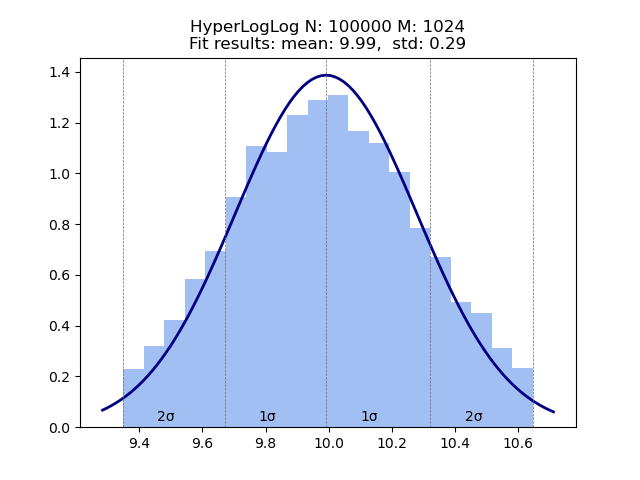
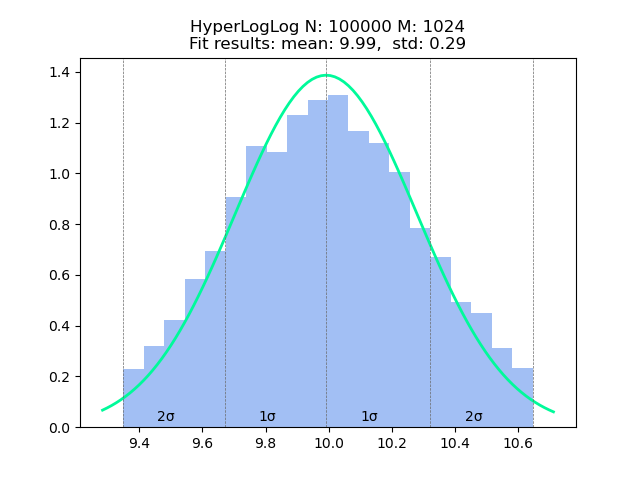
histograms

diff --git a/histogram.py b/histogram.py
@@ -59,7 +59,7 @@ def make_hist(d, mu, std1, std2, m, n):
     x = np.linspace(xmin, xmax, 100)
     p = norm.pdf(x, mu, std)
 
-    plt.plot(x, p, 'navy', linewidth=2)
+    plt.plot(x, p, 'mediumspringgreen', linewidth=2)
     # axes for standard divation
     plt.axvline(std1[0], color='dimgrey', linestyle='dashed', linewidth=0.5)
     plt.axvline(std1[1], color='dimgrey', linestyle='dashed', linewidth=0.5)
